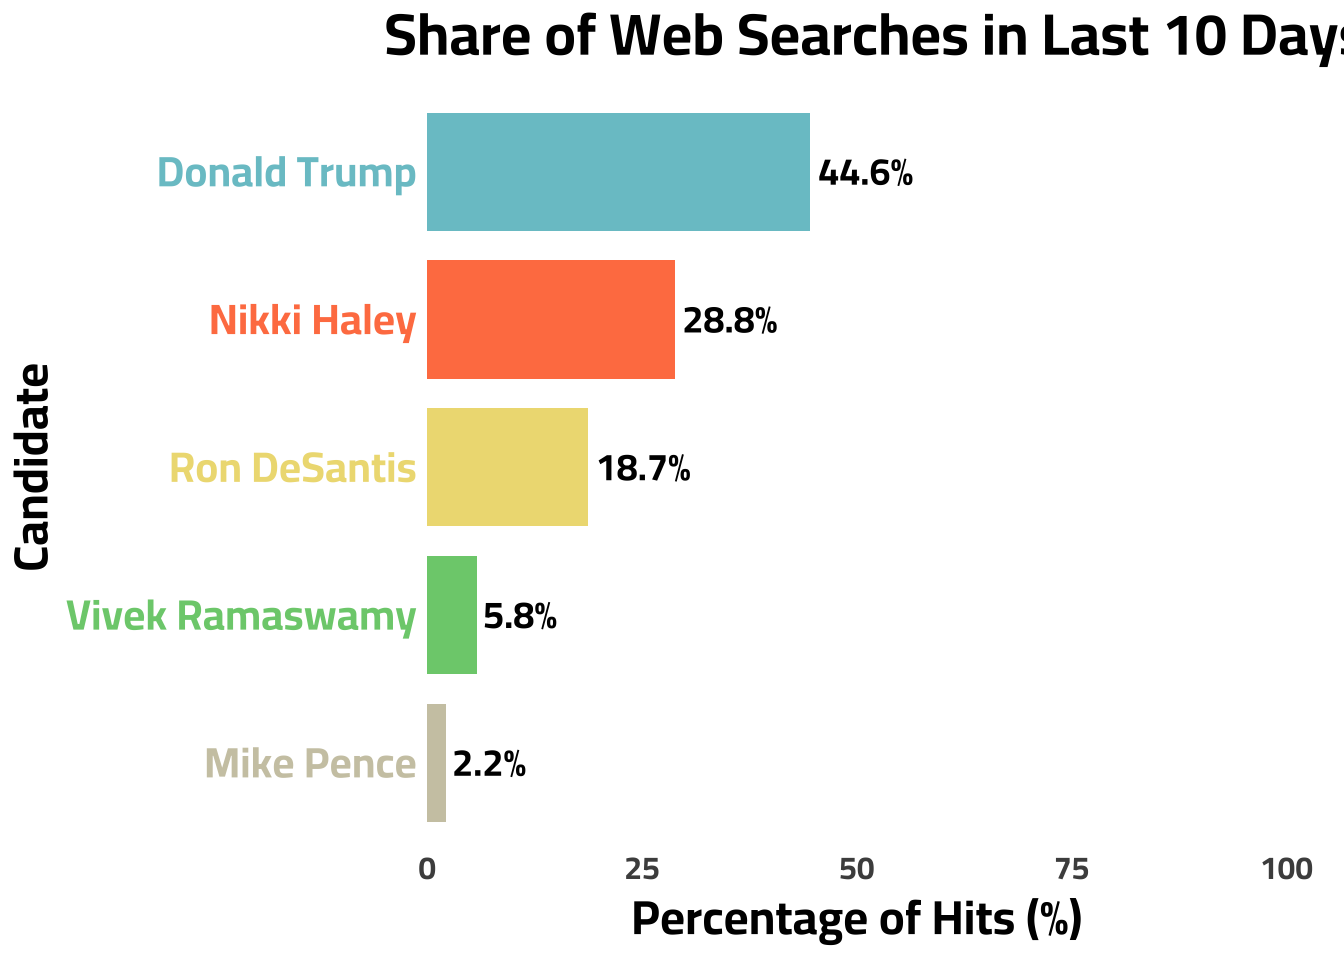
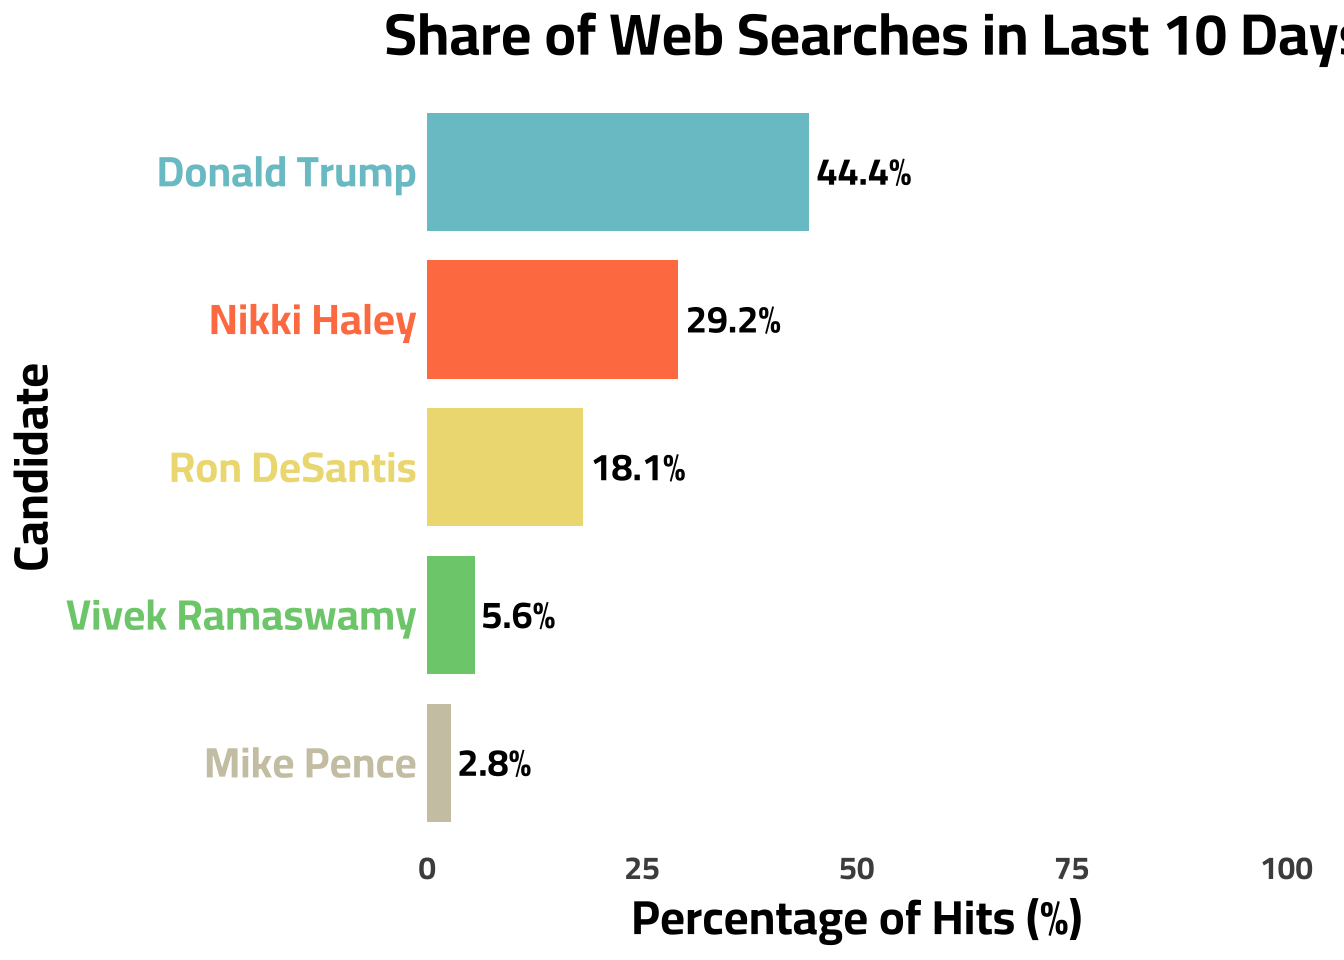
StreamGraph Update

diff --git a/_site/blog.html b/_site/blog.html
@@ -178,7 +178,7 @@ ul.task-list li input[type="checkbox"] {
 
 <div class="quarto-listing quarto-listing-container-default" id="listing-listing">
 <div class="list quarto-listing-default">
-<div class="quarto-post image-right" data-index="0" data-categories="Life Hacks,Commentary" data-listing-date-sort="1697760000000" data-listing-file-modified-sort="1702038460548" data-listing-date-modified-sort="NaN" data-listing-reading-time-sort="8">
+<div class="quarto-post image-right" data-index="0" data-categories="Life Hacks,Commentary" data-listing-date-sort="1697760000000" data-listing-file-modified-sort="1702124492305" data-listing-date-modified-sort="NaN" data-listing-reading-time-sort="8">
 <div class="thumbnail">
 <p><a href="./posts/path_to_datascience/index.html"> <img src="./posts/path_to_datascience/tile.png" class="thumbnail-image"> </a></p>
 </div>
@@ -209,7 +209,7 @@ Oct 20, 2023
 </a>
 </div>
 </div>
-<div class="quarto-post image-right" data-index="1" data-categories="Google Trends,Data Journalism,Politics,CICD" data-listing-date-sort="1696377600000" data-listing-file-modified-sort="1702038460549" data-listing-date-modified-sort="NaN" data-listing-reading-time-sort="7">
+<div class="quarto-post image-right" data-index="1" data-categories="Google Trends,Data Journalism,Politics,CICD" data-listing-date-sort="1696377600000" data-listing-file-modified-sort="1702124492306" data-listing-date-modified-sort="NaN" data-listing-reading-time-sort="7">
 <div class="thumbnail">
 <p><a href="./posts/primary_stream/index.html"> <img src="././about_files/primary_1.png" class="thumbnail-image"> </a></p>
 </div>
@@ -246,7 +246,7 @@ Oct 4, 2023
 </a>
 </div>
 </div>
-<div class="quarto-post image-right" data-index="2" data-categories="CICD,Quarto" data-listing-date-sort="1694044800000" data-listing-file-modified-sort="1702038460544" data-listing-date-modified-sort="NaN" data-listing-reading-time-sort="8">
+<div class="quarto-post image-right" data-index="2" data-categories="CICD,Quarto" data-listing-date-sort="1694044800000" data-listing-file-modified-sort="1702124492301" data-listing-date-modified-sort="NaN" data-listing-reading-time-sort="8">
 <div class="thumbnail">
 <p><a href="./posts/cicd_primary/index.html"> <img src="https://external-content.duckduckgo.com/iu/?u=https%3A%2F%2Fwww.adictosaltrabajo.com%2Fwp-content%2Fuploads%2F2020%2F10%2Fandroid-github-actions-setup-image-35b6a79fea4a7289acb6796cd4ad05b4.png&amp;f=1&amp;nofb=1&amp;ipt=b02a4ecfb6e2d666f35916b643a6f3e9907e880252d1e19d3eda47521252e9c3&amp;ipo=images" class="thumbnail-image"> </a></p>
 </div>
@@ -277,7 +277,7 @@ Sep 7, 2023
 </a>
 </div>
 </div>
-<div class="quarto-post image-right" data-index="3" data-categories="Life Hacks,Quarto" data-listing-date-sort="1688601600000" data-listing-file-modified-sort="1702038460550" data-listing-date-modified-sort="NaN" data-listing-reading-time-sort="3">
+<div class="quarto-post image-right" data-index="3" data-categories="Life Hacks,Quarto" data-listing-date-sort="1688601600000" data-listing-file-modified-sort="1702124492306" data-listing-date-modified-sort="NaN" data-listing-reading-time-sort="3">
 <div class="thumbnail">
 <p><a href="./posts/simple_analytics/index.html"> <img src="./about_files/Simple_Analytics.png" class="thumbnail-image"> </a></p>
 </div>
@@ -308,7 +308,7 @@ Jul 6, 2023
 </a>
 </div>
 </div>
-<div class="quarto-post image-right" data-index="4" data-categories="Data Journalism,Google Trends,Politics" data-listing-date-sort="1687824000000" data-listing-file-modified-sort="1702038460545" data-listing-date-modified-sort="NaN" data-listing-reading-time-sort="7">
+<div class="quarto-post image-right" data-index="4" data-categories="Data Journalism,Google Trends,Politics" data-listing-date-sort="1687824000000" data-listing-file-modified-sort="1702124492302" data-listing-date-modified-sort="NaN" data-listing-reading-time-sort="7">
 <div class="thumbnail">
 <p><a href="./posts/google_trends/index.html"> <img src="./about_files/byteman.png" class="thumbnail-image"> </a></p>
 </div>
@@ -342,7 +342,7 @@ Jun 27, 2023
 </a>
 </div>
 </div>
-<div class="quarto-post image-right" data-index="5" data-categories="Data Journalism,LDS,R" data-listing-date-sort="1675728000000" data-listing-file-modified-sort="1702038460545" data-listing-date-modified-sort="NaN" data-listing-reading-time-sort="4">
+<div class="quarto-post image-right" data-index="5" data-categories="Data Journalism,LDS,R" data-listing-date-sort="1675728000000" data-listing-file-modified-sort="1702124492302" data-listing-date-modified-sort="NaN" data-listing-reading-time-sort="4">
 <div class="thumbnail">
 <p><a href="./posts/income_myth/index.html"> <img src="./about_files/LDS_myth_0.png" class="thumbnail-image"> </a></p>
 </div>
@@ -376,7 +376,7 @@ Feb 7, 2023
 </a>
 </div>
 </div>
-<div class="quarto-post image-right" data-index="6" data-categories="Life Hacks,Quarto" data-listing-date-sort="1662076800000" data-listing-file-modified-sort="1702038460549" data-listing-date-modified-sort="NaN" data-listing-reading-time-sort="4">
+<div class="quarto-post image-right" data-index="6" data-categories="Life Hacks,Quarto" data-listing-date-sort="1662076800000" data-listing-file-modified-sort="1702124492306" data-listing-date-modified-sort="NaN" data-listing-reading-time-sort="4">
 <div class="thumbnail">
 <p><a href="./posts/resume/index.html"> <img src="./about_files/resume_2.png" class="thumbnail-image"> </a></p>
 </div>
@@ -407,7 +407,7 @@ Sep 2, 2022
 </a>
 </div>
 </div>
-<div class="quarto-post image-right" data-index="7" data-categories="Survey Research,Data Journalism,LDS" data-listing-date-sort="1646265600000" data-listing-file-modified-sort="1702038460542" data-listing-date-modified-sort="NaN" data-listing-reading-time-sort="7">
+<div class="quarto-post image-right" data-index="7" data-categories="Survey Research,Data Journalism,LDS" data-listing-date-sort="1646265600000" data-listing-file-modified-sort="1702124492299" data-listing-date-modified-sort="NaN" data-listing-reading-time-sort="7">
 <div class="thumbnail">
 <p><a href="./posts/7_facts/index.html"> <img src="https://www.ldstemple.pics/wp-content/uploads/washington-dc-temple-final-sunset-600x600.jpg" class="thumbnail-image"> </a></p>
 </div>
@@ -441,7 +441,7 @@ Mar 3, 2022
 </a>
 </div>
 </div>
-<div class="quarto-post image-right" data-index="8" data-categories="Data Journalism,R" data-listing-date-sort="1618012800000" data-listing-file-modified-sort="1702038460544" data-listing-date-modified-sort="NaN" data-listing-reading-time-sort="4">
+<div class="quarto-post image-right" data-index="8" data-categories="Data Journalism,R" data-listing-date-sort="1618012800000" data-listing-file-modified-sort="1702124492301" data-listing-date-modified-sort="NaN" data-listing-reading-time-sort="4">
 <div class="thumbnail">
 <p><a href="./posts/facebook_data/index.html"> <img src="./about_files/fb_icon" class="thumbnail-image"> </a></p>
 </div>
@@ -472,7 +472,7 @@ Apr 10, 2021
 </a>
 </div>
 </div>
-<div class="quarto-post image-right" data-index="9" data-categories="Data Journalism,R,Survey Research,LDS,Politics" data-listing-date-sort="1607472000000" data-listing-file-modified-sort="1702038460546" data-listing-date-modified-sort="NaN" data-listing-reading-time-sort="8">
+<div class="quarto-post image-right" data-index="9" data-categories="Data Journalism,R,Survey Research,LDS,Politics" data-listing-date-sort="1607472000000" data-listing-file-modified-sort="1702124492303" data-listing-date-modified-sort="NaN" data-listing-reading-time-sort="8">
 <div class="thumbnail">
 <p><a href="./posts/lds_gop/index.html"> <img src="./about_files/iu-3.jpeg" class="thumbnail-image"> </a></p>
 </div>
@@ -512,7 +512,7 @@ Dec 9, 2020
 </a>
 </div>
 </div>
-<div class="quarto-post image-right" data-index="10" data-categories="Data Journalism,R" data-listing-date-sort="1594339200000" data-listing-file-modified-sort="1702038460543" data-listing-date-modified-sort="NaN" data-listing-reading-time-sort="7">
+<div class="quarto-post image-right" data-index="10" data-categories="Data Journalism,R" data-listing-date-sort="1594339200000" data-listing-file-modified-sort="1702124492300" data-listing-date-modified-sort="NaN" data-listing-reading-time-sort="7">
 <div class="thumbnail">
 <p><a href="./posts/cars/index.html"> <img src="https://media.giphy.com/media/rUE9CTmsYMbbOz2MqD/giphy.gif" class="thumbnail-image"> </a></p>
 </div>
@@ -543,7 +543,7 @@ Jul 10, 2020
 </a>
 </div>
 </div>
-<div class="quarto-post image-right" data-index="11" data-categories="Data Journalism,R,Shiny" data-listing-date-sort="1591660800000" data-listing-file-modified-sort="1702038460546" data-listing-date-modified-sort="NaN" data-listing-reading-time-sort="7">
+<div class="quarto-post image-right" data-index="11" data-categories="Data Journalism,R,Shiny" data-listing-date-sort="1591660800000" data-listing-file-modified-sort="1702124492303" data-listing-date-modified-sort="NaN" data-listing-reading-time-sort="7">
 <div class="thumbnail">
 <p><a href="./posts/mobility/index.html"> <img src="./about_files/iu-2.jpeg" class="thumbnail-image"> </a></p>
 </div>

diff --git a/_site/projects.html b/_site/projects.html
@@ -178,7 +178,7 @@ ul.task-list li input[type="checkbox"] {
 
 <div class="quarto-listing quarto-listing-container-grid" id="listing-listing">
 <div class="list grid quarto-listing-cols-3">
-<div class="g-col-1" data-index="0" data-categories="Capstone,Python,Stats" data-listing-date-sort="1682899200000" data-listing-file-modified-sort="1702038460564" data-listing-date-modified-sort="NaN" data-listing-reading-time-sort="4">
+<div class="g-col-1" data-index="0" data-categories="Capstone,Python,Stats" data-listing-date-sort="1682899200000" data-listing-file-modified-sort="1702124492317" data-listing-date-modified-sort="NaN" data-listing-reading-time-sort="4">
 <a href="./projects/internet_archive/index.html" class="quarto-grid-link">
 <div class="quarto-grid-item card h-100 card-left">
 <p class="card-img-top">
@@ -211,7 +211,7 @@ May 1, 2023
 </div>
 </a>
 </div>
-<div class="g-col-1" data-index="1" data-categories="Python,Stats,Dataviz" data-listing-date-sort="1660867200000" data-listing-file-modified-sort="1702038460560" data-listing-date-modified-sort="NaN" data-listing-reading-time-sort="10">
+<div class="g-col-1" data-index="1" data-categories="Python,Stats,Dataviz" data-listing-date-sort="1660867200000" data-listing-file-modified-sort="1702124492315" data-listing-date-modified-sort="NaN" data-listing-reading-time-sort="10">
 <a href="./projects/bayesian_county/index.html" class="quarto-grid-link">
 <div class="quarto-grid-item card h-100 card-left">
 <p class="card-img-top">
@@ -244,7 +244,7 @@ Aug 19, 2022
 </div>
 </a>
 </div>
-<div class="g-col-1" data-index="2" data-categories="CI/CD,R,Dataviz" data-listing-date-sort="1636329600000" data-listing-file-modified-sort="1702038460561" data-listing-date-modified-sort="NaN" data-listing-reading-time-sort="3">
+<div class="g-col-1" data-index="2" data-categories="CI/CD,R,Dataviz" data-listing-date-sort="1636329600000" data-listing-file-modified-sort="1702124492315" data-listing-date-modified-sort="NaN" data-listing-reading-time-sort="3">
 <a href="./projects/covid_update/index.html" class="quarto-grid-link">
 <div class="quarto-grid-item card h-100 card-left">
 <p class="card-img-top">
@@ -277,7 +277,7 @@ Nov 8, 2021
 </div>
 </a>
 </div>
-<div class="g-col-1" data-index="3" data-categories="Dataviz,Stats,R" data-listing-date-sort="1600387200000" data-listing-file-modified-sort="1702038460561" data-listing-date-modified-sort="NaN" data-listing-reading-time-sort="2">
+<div class="g-col-1" data-index="3" data-categories="Dataviz,Stats,R" data-listing-date-sort="1600387200000" data-listing-file-modified-sort="1702124492316" data-listing-date-modified-sort="NaN" data-listing-reading-time-sort="2">
 <a href="./projects/election_model/index.html" class="quarto-grid-link">
 <div class="quarto-grid-item card h-100 card-left">
 <p class="card-img-top">
@@ -310,7 +310,7 @@ Sep 18, 2020
 </div>
 </a>
 </div>
-<div class="g-col-1" data-index="4" data-categories="R,Shiny" data-listing-date-sort="1596153600000" data-listing-file-modified-sort="1702038460564" data-listing-date-modified-sort="NaN" data-listing-reading-time-sort="2">
+<div class="g-col-1" data-index="4" data-categories="R,Shiny" data-listing-date-sort="1596153600000" data-listing-file-modified-sort="1702124492318" data-listing-date-modified-sort="NaN" data-listing-reading-time-sort="2">
 <a href="./projects/peanuts/index.html" class="quarto-grid-link">
 <div class="quarto-grid-item card h-100 card-left">
 <p class="card-img-top">
@@ -340,7 +340,7 @@ Jul 31, 2020
 </div>
 </a>
 </div>
-<div class="g-col-1" data-index="5" data-categories="Capstone,R,Stats" data-listing-date-sort="1587772800000" data-listing-file-modified-sort="1702038460567" data-listing-date-modified-sort="NaN" data-listing-reading-time-sort="6">
+<div class="g-col-1" data-index="5" data-categories="Capstone,R,Stats" data-listing-date-sort="1587772800000" data-listing-file-modified-sort="1702124492320" data-listing-date-modified-sort="NaN" data-listing-reading-time-sort="6">
 <a href="./projects/star_wars_capstone/index.html" class="quarto-grid-link">
 <div class="quarto-grid-item card h-100 card-left">
 <p class="card-img-top">

diff --git a/_site/posts/primary_stream/index.html b/_site/posts/primary_stream/index.html
@@ -181,7 +181,7 @@ Note
 </div>
 </div>
 <div class="callout-body-container callout-body">
-<p>This graph is updated on a daily basis to provide continuous context to the GOP Primary Election. This graph was last updated: 12:27:47 on 08 Dec 2023</p>
+<p>This graph is updated on a daily basis to provide continuous context to the GOP Primary Election. This graph was last updated: 12:21:39 on 09 Dec 2023</p>
 </div>
 </div>
 <div class="cell">
@@ -234,7 +234,7 @@ Note
 </div>
 </div>
 <div class="callout-body-container callout-body">
-<p>This graph is updated on a daily basis to provide continuous context to the GOP Primary Election. This graph was last updated: 12:27:54 on 08 Dec 2023</p>
+<p>This graph is updated on a daily basis to provide continuous context to the GOP Primary Election. This graph was last updated: 12:21:46 on 09 Dec 2023</p>
 </div>
 </div>
 <p>This graph is provided to give a barometer reading of a candidates <em>recent</em> popularity/news coverage.</p>
